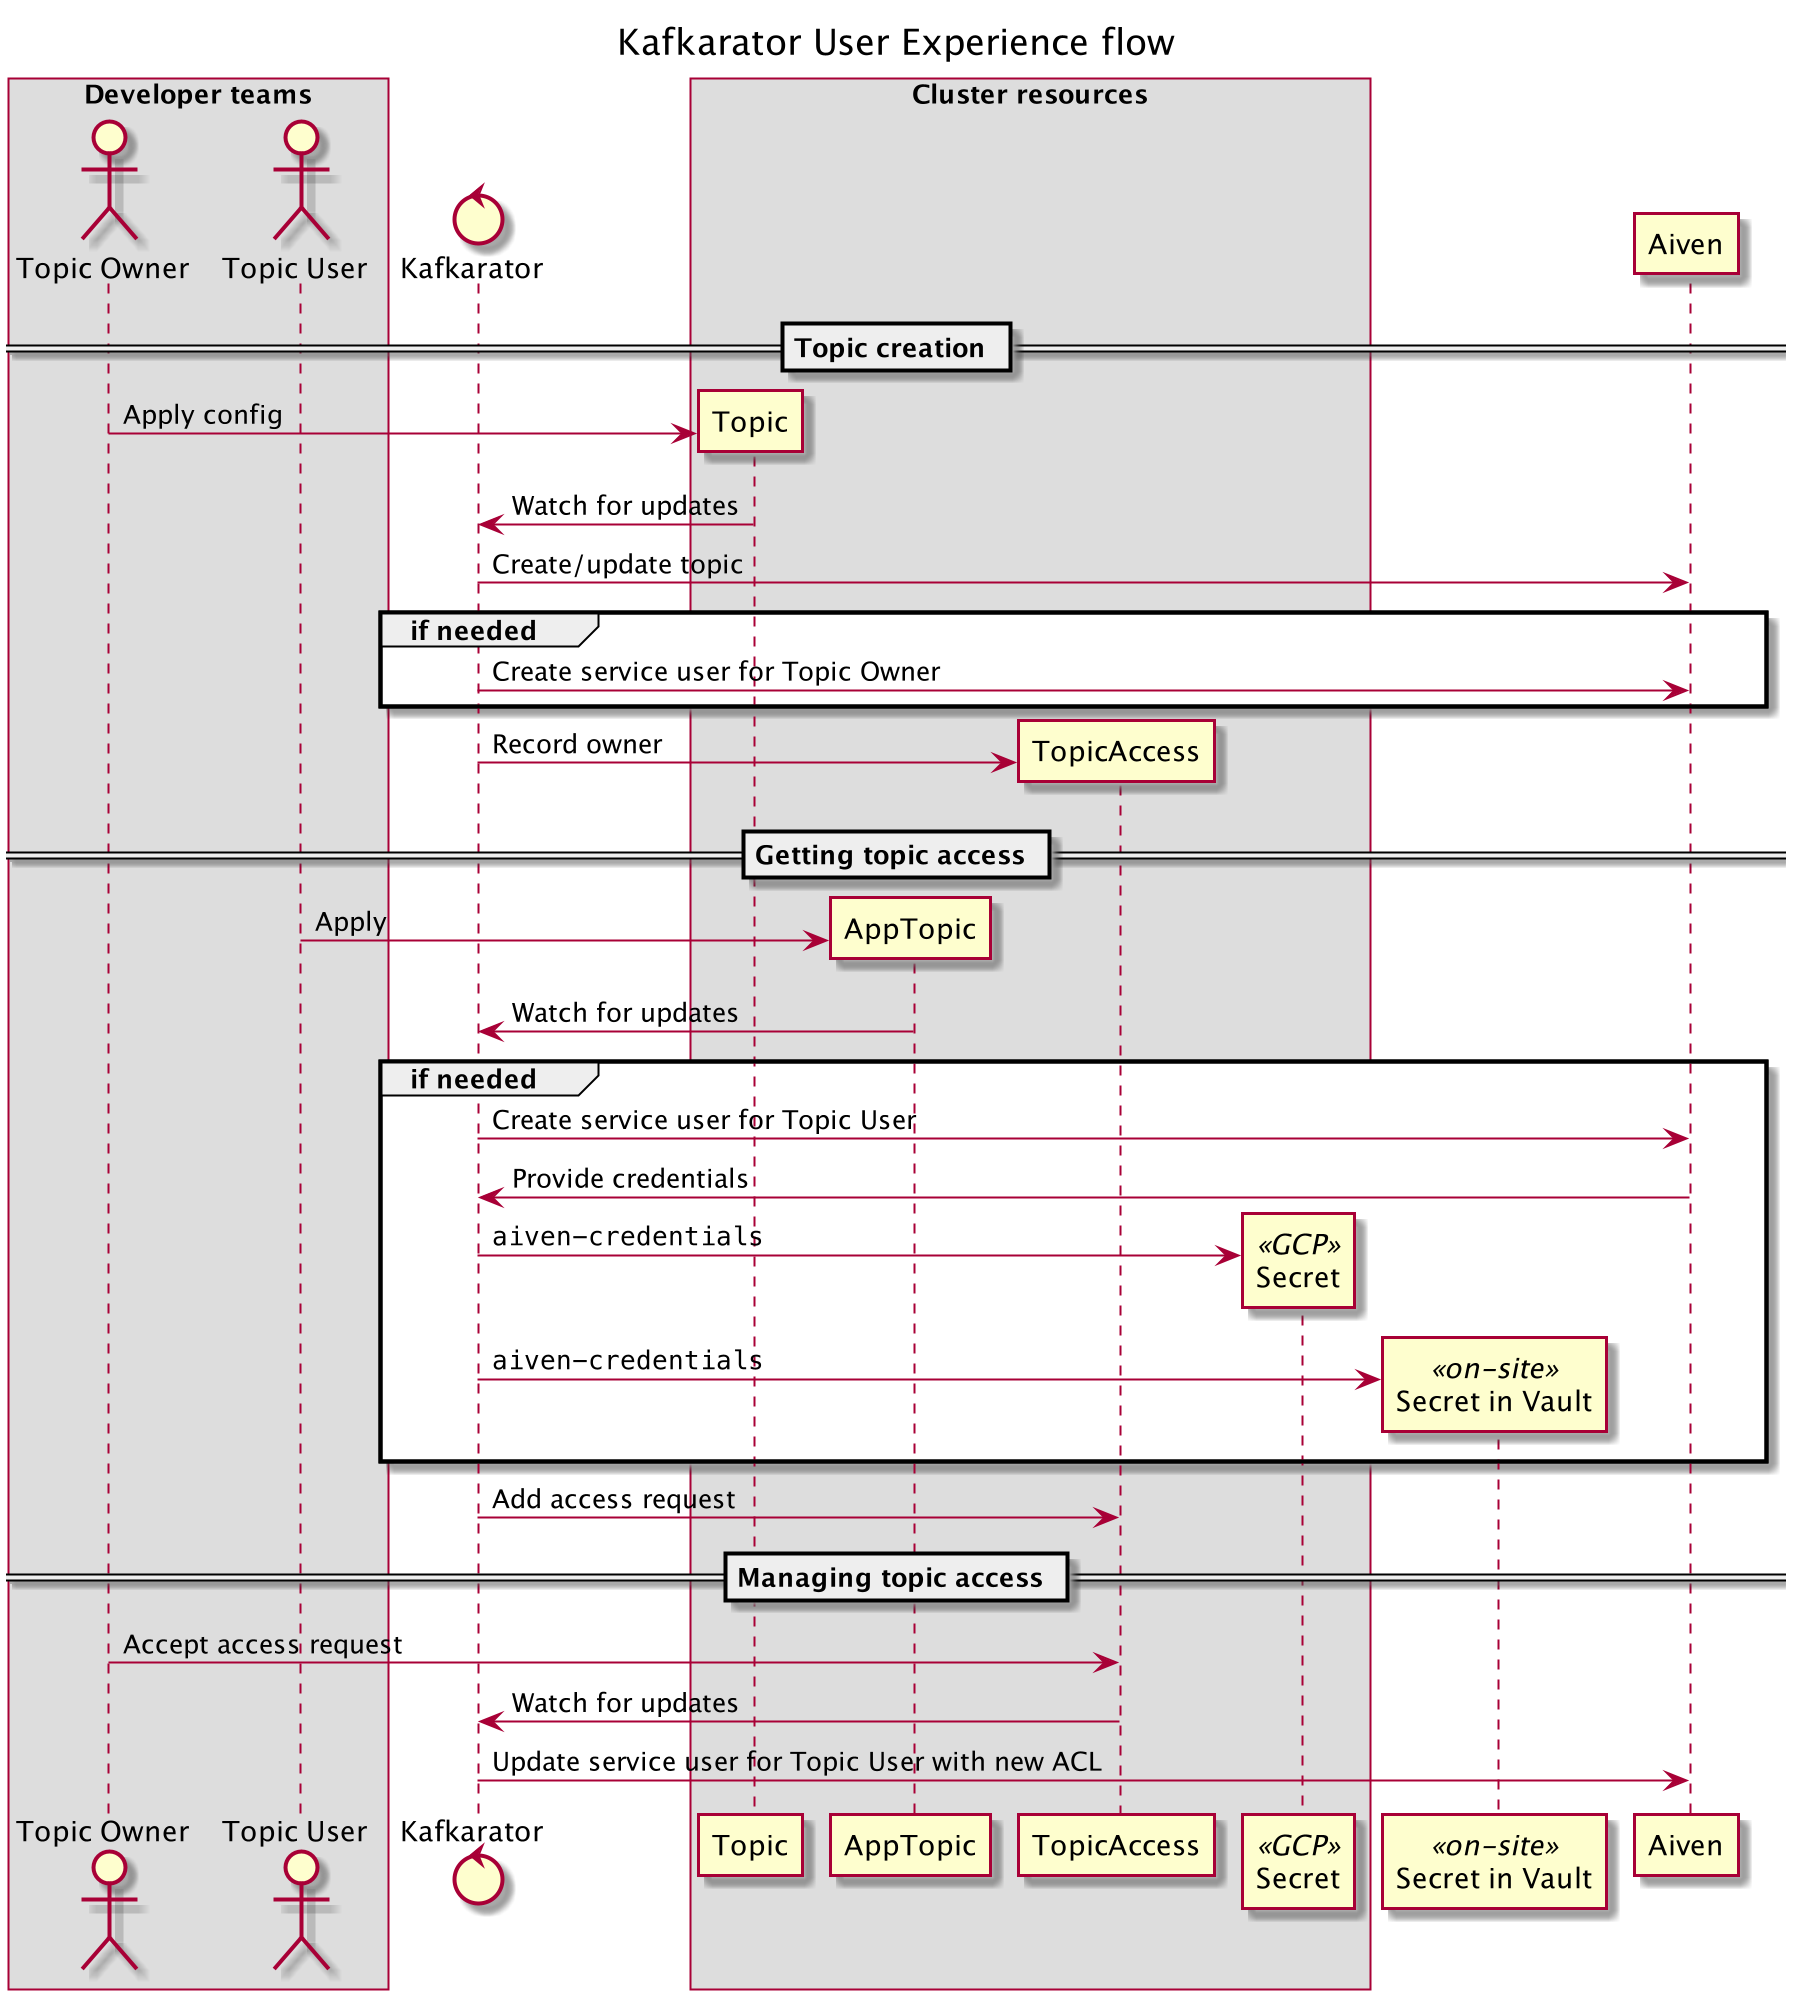
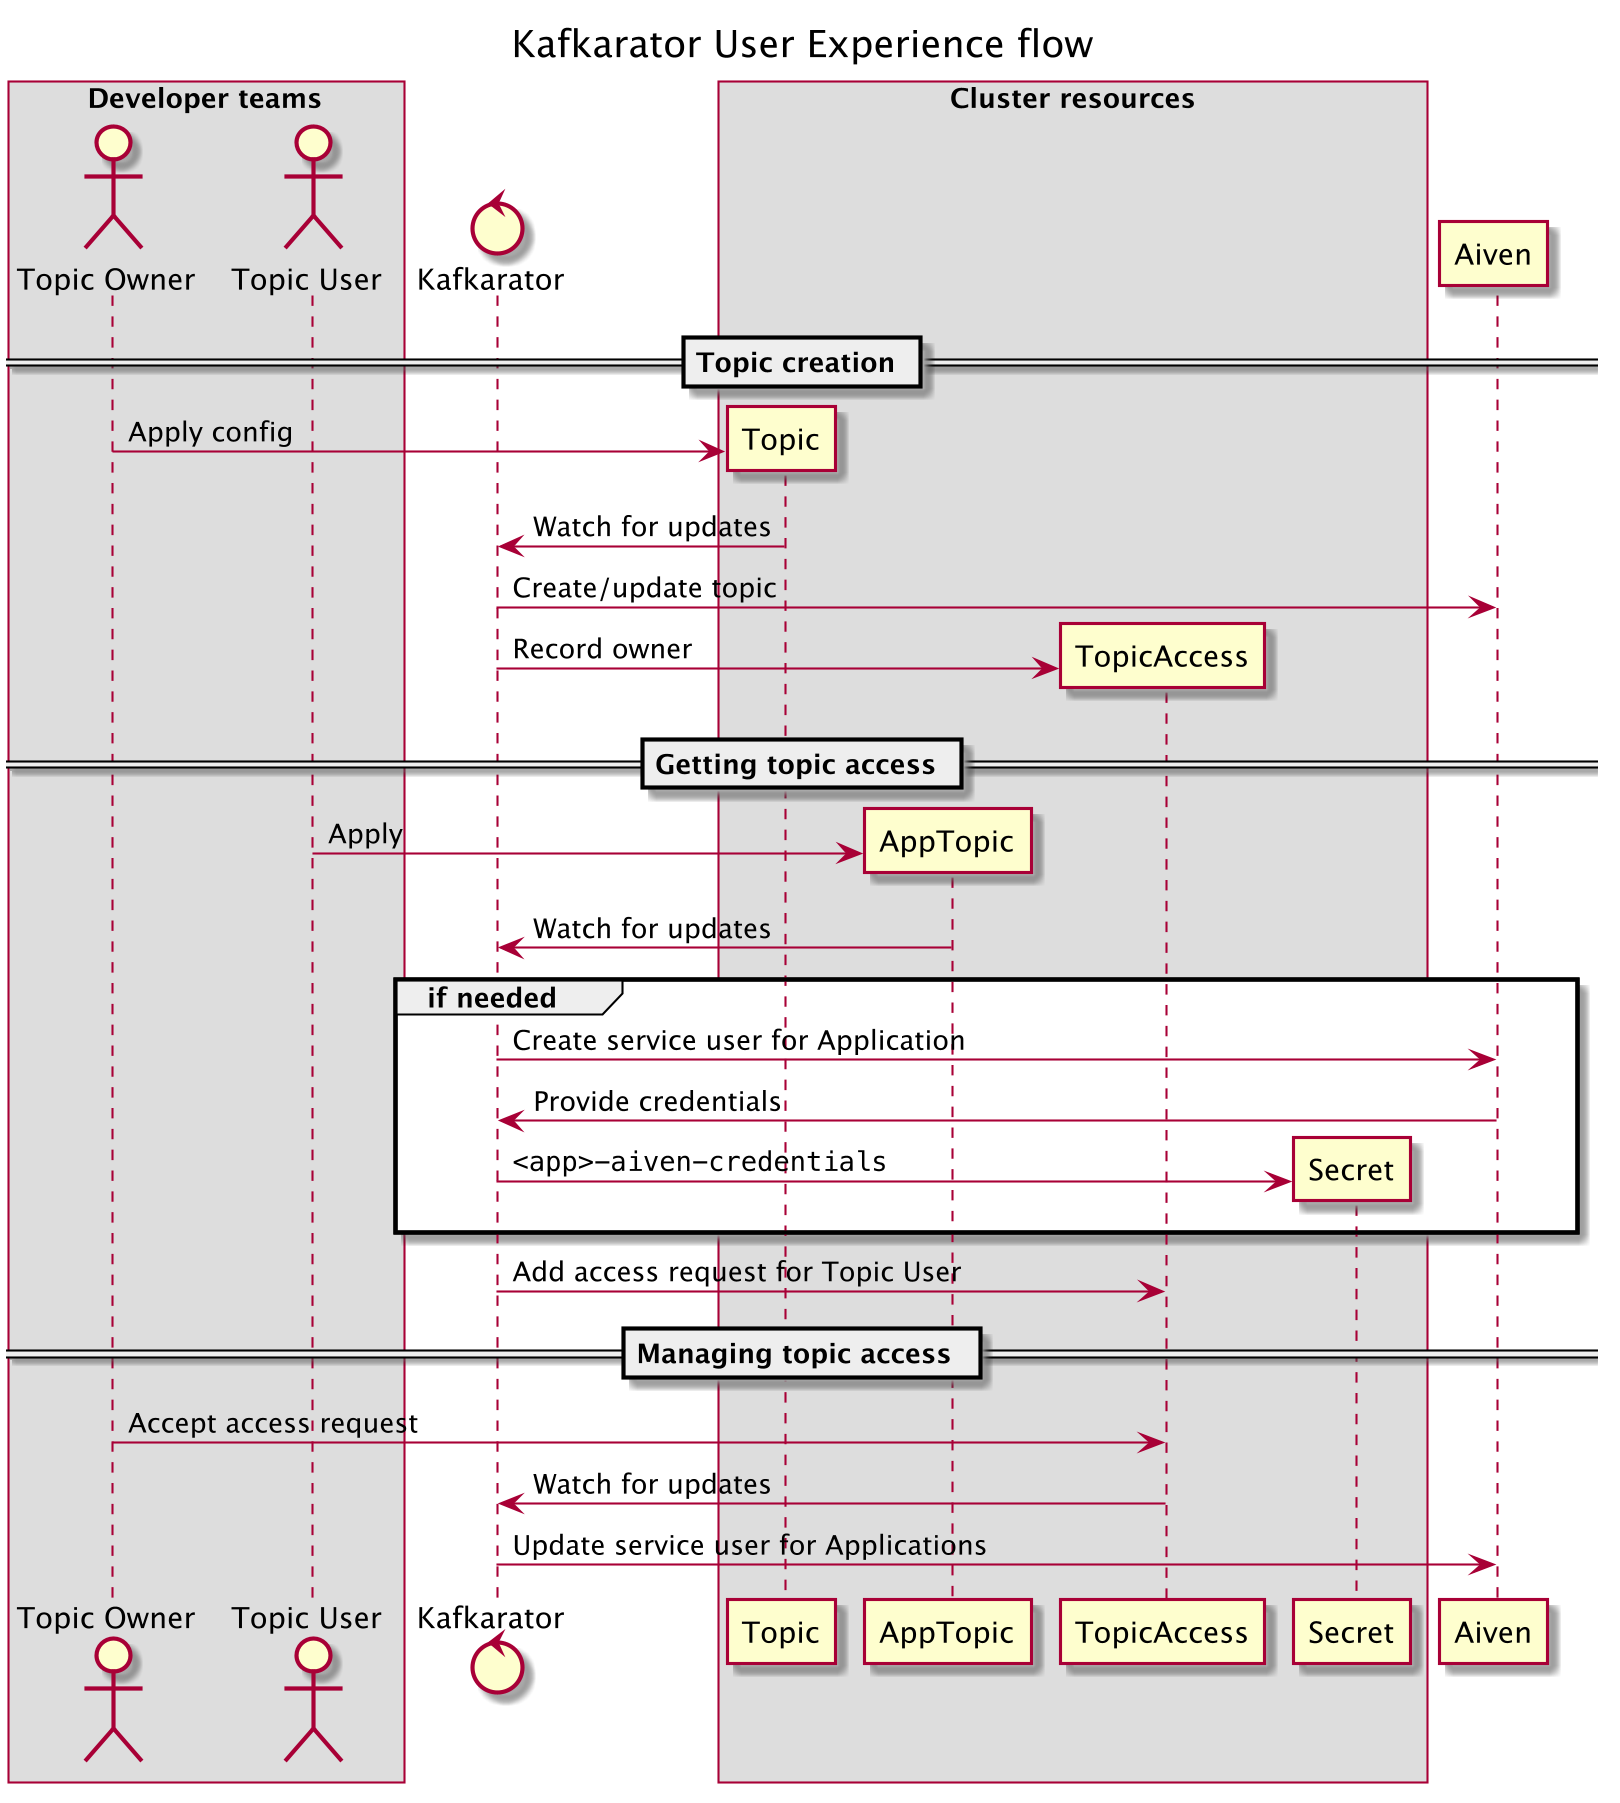
Updates after discussing security considerations

diff --git a/tasks.py b/tasks.py
@@ -1,0 +1,12 @@
+import os
+
+from invoke import task
+
+REPO_DIR = os.path.dirname(__file__)
+
+
+@task
+def update_adr(c, render_puml=True):
+    if render_puml:
+        c.run(f"plantuml -v {REPO_DIR}/doc/adr/")
+    c.run(f"adr generate toc -o {REPO_DIR}/doc/adr/.outro.md > {REPO_DIR}/doc/adr/README.md")

diff --git a/doc/adr/0008-user-experience.md b/doc/adr/0008-user-experience.md
@@ -41,25 +41,23 @@ The flow can be separated into three distinct parts:
 1. A developer creates a Topic CRD in their team namespace, detailing the topic name and configuration (1) 
 2. Kafkarator sees the Topic and
     1. Creates the topic in the Aiven cluster
-    2. If the team does not already have a service user in Aiven, it is created
-    3. Creates a TopicAccess CRD object, recording the team as owner of this Topic
+    2. Creates a TopicAccess CRD object, recording the team as owner of this Topic
 
 #### Getting topic access
 
 1. A developer creates an AppTopic CRD in their team namespace, connecting an application with topics for either 
    producing or consuming (2)
 2. Kafkarator sees the AppTopic and
-    1. If the team does not already have a service user in Aiven, it is created
+    1. If the application does not already have a service user in Aiven, it is created
     2. Downloads credentials for service user
-    3. Creates a Kubernetes secret in the team namespace if on GCP (3)
-    4. Creates a Vault secret if on-site (3)
-    5. Adds an access request to the TopicAccess associated with this Topic
+    3. Creates a Kubernetes secret in the team namespace
+    4. Adds an access request to the associated TopicAccess
 
 #### Managing topic access
 
 1. A topic owner edits the TopicAccess CRD to accept an access request (4)
 2. Kafkarator sees the TopicAccess change and
-    1. Updates ACL for the service users, granting or removing access to a Topic
+    1. Updates ACL for all relevant service users, granting or removing access to a Topic (5)
     
 #### Future work
 
@@ -76,6 +74,9 @@ if it exists.
 (4) Later iterations might want to provide a UI for teams to manage access, instead of editing CRDs directly. This would
 reduce the chance of errors, but requires proper access control in the UI which is already provided by Kubernetes.
 
+(5) Credentials for topic access is provided as service users per application, but we want access to be granted on a 
+team basis. This allows for limiting access to individual applications should the need arise at a later point.
+
 ## Decisions
 
 - We will keep the CRDs as detailed in [6. Kafkarator API is focused around dedicated CRDs](0006-kafkarator-api-is-focused-around-dedicated-crds.md)
@@ -90,3 +91,4 @@ This will be good enough for us to open up for users, so that we can gather feed
 the user experience further.
 
 Users needs to work directly with CRDs, especially topic owners. 
+

diff --git a/doc/adr/README.md b/doc/adr/README.md
@@ -10,4 +10,4 @@
 * [8. User experience](0008-user-experience.md)
 
 
-> Generate this file using the command `adr generate toc -o doc/adr/.outro.md > doc/adr/README.md`
+> Generate this file using the command `poetry run inv update-adr`

diff --git a/doc/adr/.outro.md b/doc/adr/.outro.md
@@ -1,2 +1,2 @@
 
-> Generate this file using the command `adr generate toc -o doc/adr/.outro.md > doc/adr/README.md`
+> Generate this file using the command `poetry run inv update-adr`
